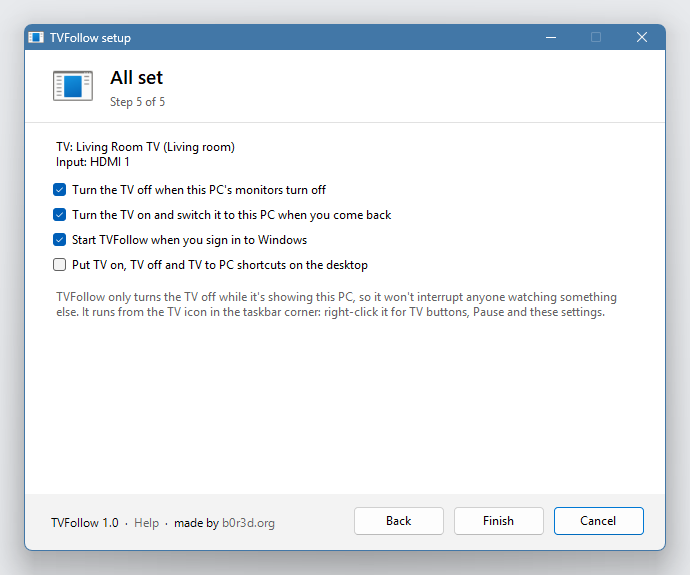
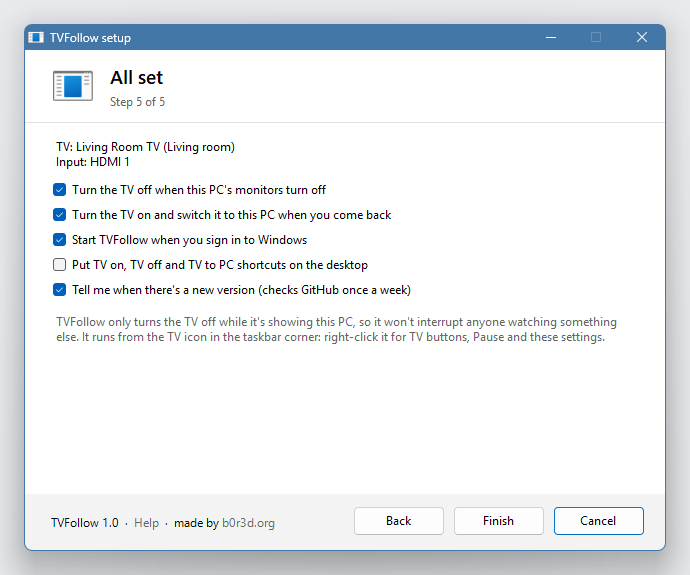
Docs: the update check, the license, a new finish-page screenshot
The privacy section now says exactly what the update check sends and how to turn it off; README explains updating; HOW-IT-WORKS describes the check, updates.ini and the check_updates setting.

Changed region(s): [[0.0609, 0.473, 0.913, 0.5913]]

diff --git a/README.md b/README.md
@@ -63,7 +63,8 @@ If the TV can't be reached while it's off, turn on **Fast TV start** on the TV
 (**Settings → System → Power → Fast TV start**) and test again. Without it, some TVs
 switch their network off along with the screen.
 
-**5. All set.** Choose what TVFollow should do, then click **Finish**.
+**5. All set.** Choose what TVFollow should do (including whether it tells you about new
+versions), then click **Finish**.
 
 ![Step 5: the options](docs/images/5-finish.png)
 
@@ -84,6 +85,10 @@ TVFollow runs from a small TV icon in the taskbar corner. You might need to clic
 
 If you ticked the desktop shortcuts option, **TV on**, **TV off** and **TV to PC** are on
 your desktop too.
+
+When a new version is out, a notification says so and the menu gets a **Get TVFollow …**
+item that opens its download page. To update, download the new TVFollow.exe and open it:
+setup remembers your TV, and finishing replaces the old version.
 
 ### How it decides
 
@@ -106,10 +111,15 @@ More detail in [How it works](docs/HOW-IT-WORKS.md).
 
 ## Privacy
 
-TVFollow only talks to your TV, over your home network. It doesn't connect to the
-internet, collect anything or phone home. Its settings and log are in
-`%APPDATA%\TVFollow`. The log shows your TV's local network address, so look it over
-before you share it.
+TVFollow talks to your TV over your home network. The only time it goes on the internet
+is the update check, if you leave it on: once a week it asks GitHub what the latest
+TVFollow release is. That request carries nothing about you or your TV beyond what any
+web request does (your internet address, and that it's TVFollow asking). It never
+downloads or installs anything by itself. Untick **Tell me when there's a new version**
+in **Settings…** to switch it off. TVFollow doesn't collect anything else.
+
+Its settings and log are in `%APPDATA%\TVFollow`. The log shows your TV's local network
+address, so look it over before you share it.
 
 ## Problems?
 
@@ -144,6 +154,9 @@ same way on GitHub's own machines, with a SHA-256 checksum next to the download.
 
 ## License
 
-MIT, see [LICENSE](LICENSE). Made by [b0r3d.org](https://b0r3d.org).
+TVFollow is free. Use it, change it and share it, at home or at work, under the MIT
+License with the [Commons Clause](https://commonsclause.com/): the one thing nobody may
+do is sell it, or sell something whose value comes mostly from it. See
+[LICENSE](LICENSE). Made by [b0r3d.org](https://b0r3d.org).
 
 Roku is a trademark of Roku, Inc. TVFollow isn't affiliated with or endorsed by Roku.

diff --git a/docs/HOW-IT-WORKS.md b/docs/HOW-IT-WORKS.md
@@ -51,6 +51,20 @@ If the TV doesn't answer when it's time to turn it on, TVFollow sends a
 **Wake-on-LAN packet** to the TV's network address (Wi-Fi or cable, whichever the TV
 uses) and gives it 20 seconds to wake up.
 
+## Checking for new versions
+
+If **Tell me when there's a new version** is on (it is unless you untick it), TVFollow
+asks GitHub once a week for its latest release:
+
+`GET https://api.github.com/repos/still-b0r3d/TVFollow/releases/latest`
+
+It first asks a couple of minutes after starting, then checks every hour whether a week
+has passed. If GitHub can't be reached, it tries again six hours later. A newer version
+gets one notification and a **Get TVFollow …** item in the tray menu, which opens the
+release page on GitHub (it only ever opens TVFollow's own release pages). TVFollow never
+downloads or installs an update by itself. When it last checked lives in `updates.ini`;
+delete that file to make it check again at the next start.
+
 ## Files and settings
 
 | What | Where |
@@ -58,6 +72,7 @@ uses) and gives it 20 seconds to wake up.
 | The program | `%LOCALAPPDATA%\Programs\TVFollow\TVFollow.exe` (plus its icons) |
 | Settings | `%APPDATA%\TVFollow\settings.ini` |
 | Log | `%APPDATA%\TVFollow\TVFollow.log` (kept under 256 KB, one older copy) |
+| Update check | `%APPDATA%\TVFollow\updates.ini` (when it last asked, the newest version seen) |
 | Start with Windows | `HKEY_CURRENT_USER\Software\Microsoft\Windows\CurrentVersion\Run`, value `TVFollow` |
 | Apps list entry | `HKEY_CURRENT_USER\Software\Microsoft\Windows\CurrentVersion\Uninstall\TVFollow` |
 | Start menu | `TVFollow` |
@@ -73,6 +88,7 @@ off_with_monitors=yes
 on_with_monitors=yes
 start_with_windows=yes
 desktop_shortcuts=no
+check_updates=yes               # ask GitHub once a week whether there's a newer TVFollow
 ```
 
 Everything is per user, so TVFollow never needs admin rights. Uninstalling removes all

diff --git a/CHANGELOG.md b/CHANGELOG.md
@@ -18,4 +18,7 @@ The first public release.
 - Installs per user without admin. Start menu entry, optional start with Windows,
   optional TV on / off / to PC desktop shortcuts, and uninstall from Settings → Apps.
 - A tray icon with TV buttons, Pause following, Settings, the log and Quit.
+- Tells you when a new version is out: once a week it asks GitHub for the latest release
+  (can be switched off in setup). It never downloads or installs anything by itself.
+- Licensed MIT with the Commons Clause: free to use, change and share, not to sell.
 - Commands for scripts and hotkeys: `on`, `off`, `pc`, `setup`, `uninstall`, `--version`.
